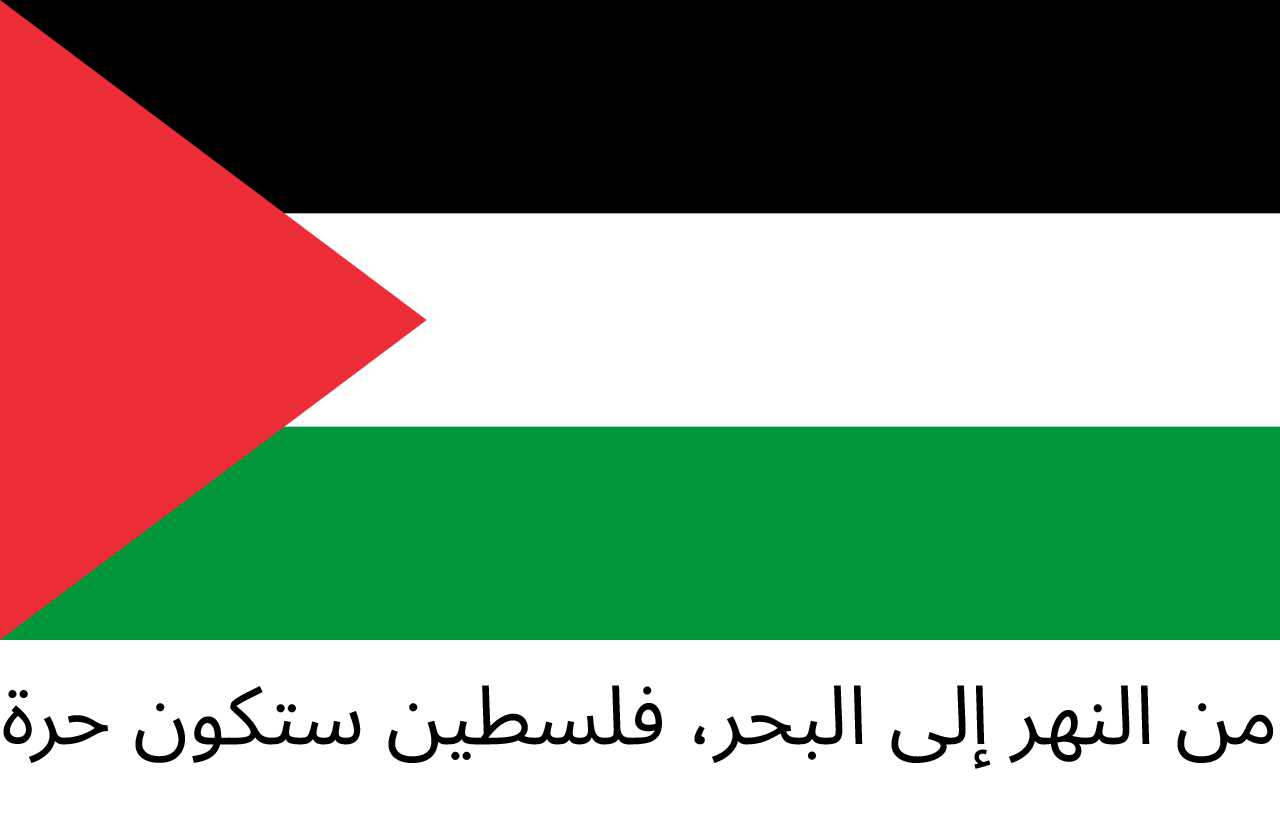
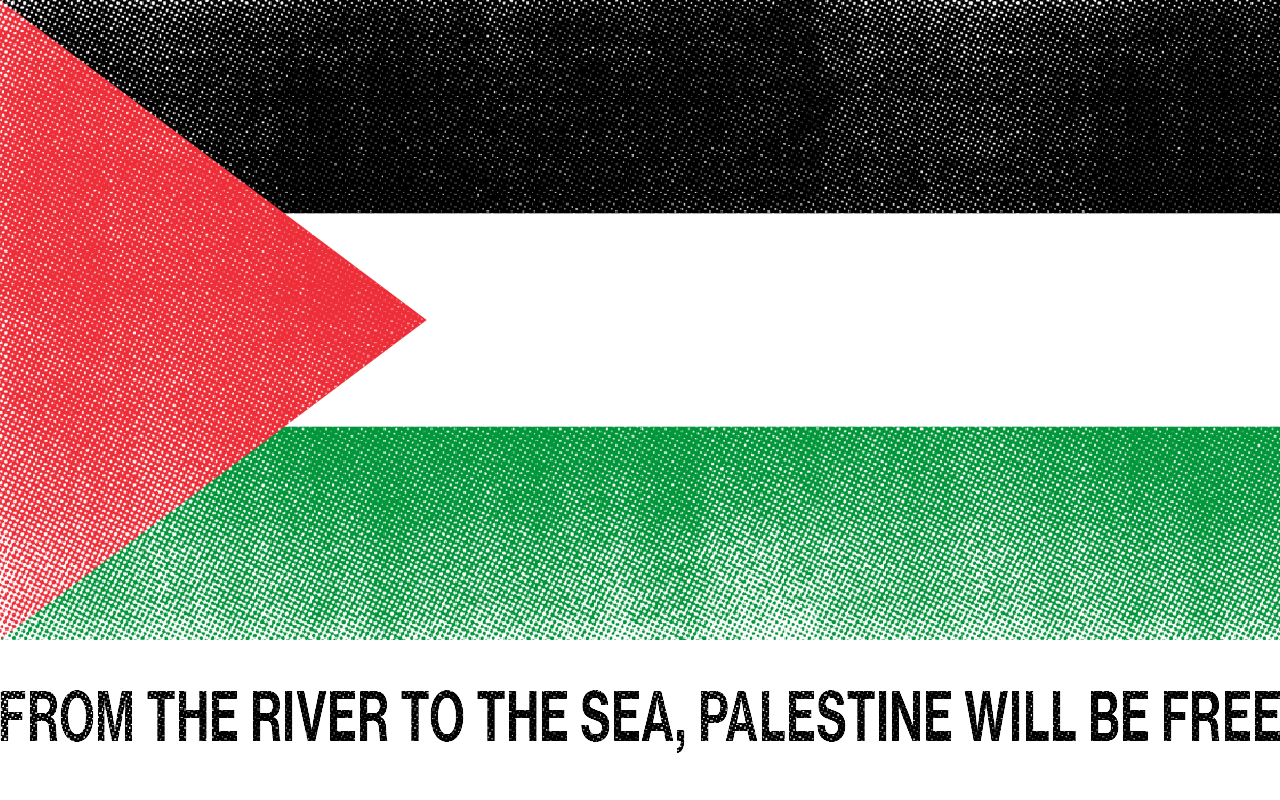
+++

Changed region(s): [[0.0, 0.0, 1.0, 0.8125], [0.0, 0.8438, 1.0, 0.9375]]

diff --git a/script-carousel-p.js b/script-carousel-p.js
@@ -1,13 +1,12 @@
     // Array of images and corresponding legends
     const imagebase = [
-        { src: 'assets/FROMTHERIVERTOTHESEAPALESTINEWILLBEFREE.png', legend: 'Ceasefire Now' },
-        { src: 'assets/FROMTHERIVERTOTHESEAPALESTINEWILLBEFREE.png', legend: 'End the Occupation' },
-        { src: 'assets/FROMTHERIVERTOTHESEAPALESTINEWILLBEFREE.png', legend: 'End the Apartheid' },
-        { src: 'assets/FROMTHERIVERTOTHESEAPALESTINEWILLBEFREE.png', legend: 'From the river' },
-        { src: 'assets/FROMTHERIVERTOTHESEAPALESTINEWILLBEFREE.png', legend: 'To the sea' },
+        { src: 'assets/FROMTHERIVERTOTHESEAPALESTINEWILLBEFREE!.png', legend: 'Ceasefire Now' },
+        { src: 'assets/PLO-1989.jpg', legend: 'End the Occupation' },
+        { src: 'assets/Samidoun-2016.jpg', legend: 'End the Apartheid' },
+        { src: 'assets/Palestine-stamps-1982.png', legend: 'From the river' },
+        { src: 'assets/PLO-1989-2.jpg', legend: 'To the sea' },
         { src: 'assets/FROMTHERIVERTOTHESEAPALESTINEWILLBEFREE.png', legend: 'Palestine will be free' }
     ];
-
 
     //Preloading:
     // Array of image URLs from the imagebase array
@@ -44,7 +43,7 @@
     gallery.addEventListener('click', nextImage);
 
     // Automatically cycling through images every 10 seconds
-    setInterval(nextImage, 10000);
+    setInterval(nextImage, 8000);
 
     // Initialize page with a random image from array at each load
     displayImage(currentIndex);

diff --git a/index.html b/index.html
@@ -1,18 +1,16 @@
 <!DOCTYPE html>
 <html>
 <head>
-    <meta name="viewport" content="width=device-width, initial-scale=1">
     <title>Free Palestine</title>
     <script src="https://code.jquery.com/jquery-3.6.0.min.js"></script>
     <script src="https://code.jquery.com/ui/1.12.1/jquery-ui.js"></script>
     <link href="stylesheet-p.css" rel="stylesheet" type="text/css">
-    <link rel="icon" href="assets/cowhite.ico" type="image/x-icon">
 </head>
 <body>
     <header>Free Palestine</header>
     <div id="contact"><div id="time"></div></div>
     <footer><div id="date"></div></footer>
-    <div id="gallery"></div>
+    <div id="gallery" draggable="true"></div>
     <div id="msg"></div>
     <div id="caption"></div>
     <script src="script-carousel-p.js"></script>

diff --git a/stylesheet-p.css b/stylesheet-p.css
@@ -51,7 +51,7 @@ footer {
     left: -30px;
     right: 0;
     margin: auto;
-    width: auto;
+    width: 100%;
     height: 300px;
     display: flex;
     align-items: center;
@@ -148,7 +148,7 @@ footer {
       right: 0;
       margin: auto;
       width: auto;
-      height: 25vh;
+      height: 35vh;
       display: flex;
       align-items: center;
       justify-content: center;
@@ -211,8 +211,9 @@ footer {
       left: 0px;
       right: 0;
       margin: auto;
-      width: auto;
-      height: 25vh;
+      width: 100%;
+      inline-size: 95%;
+      height: 30vh;
       display: flex;
       align-items: center;
       justify-content: center;
